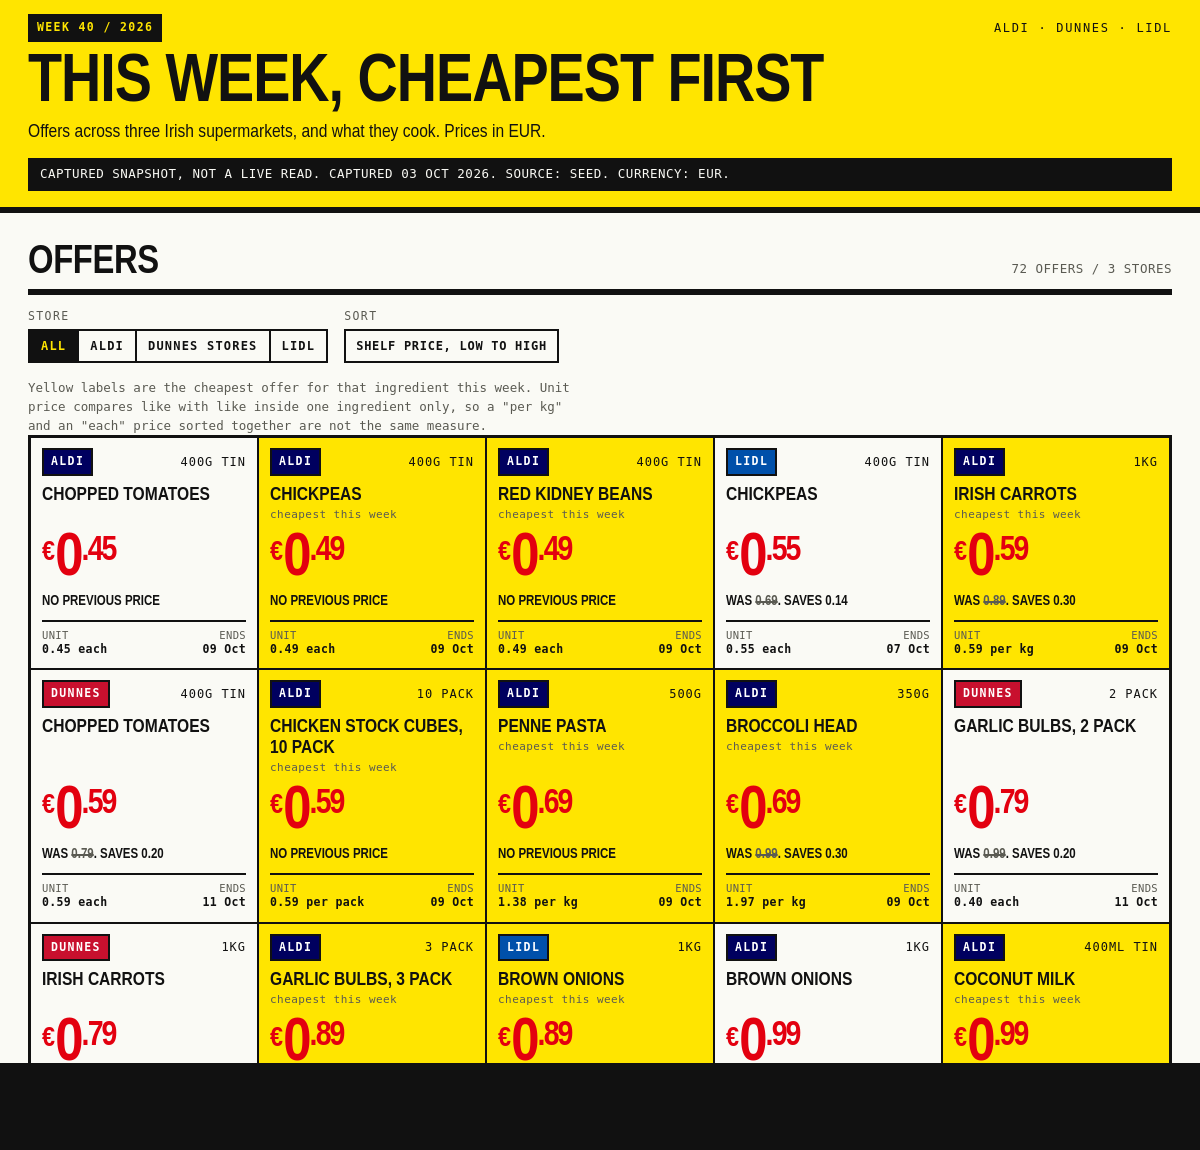
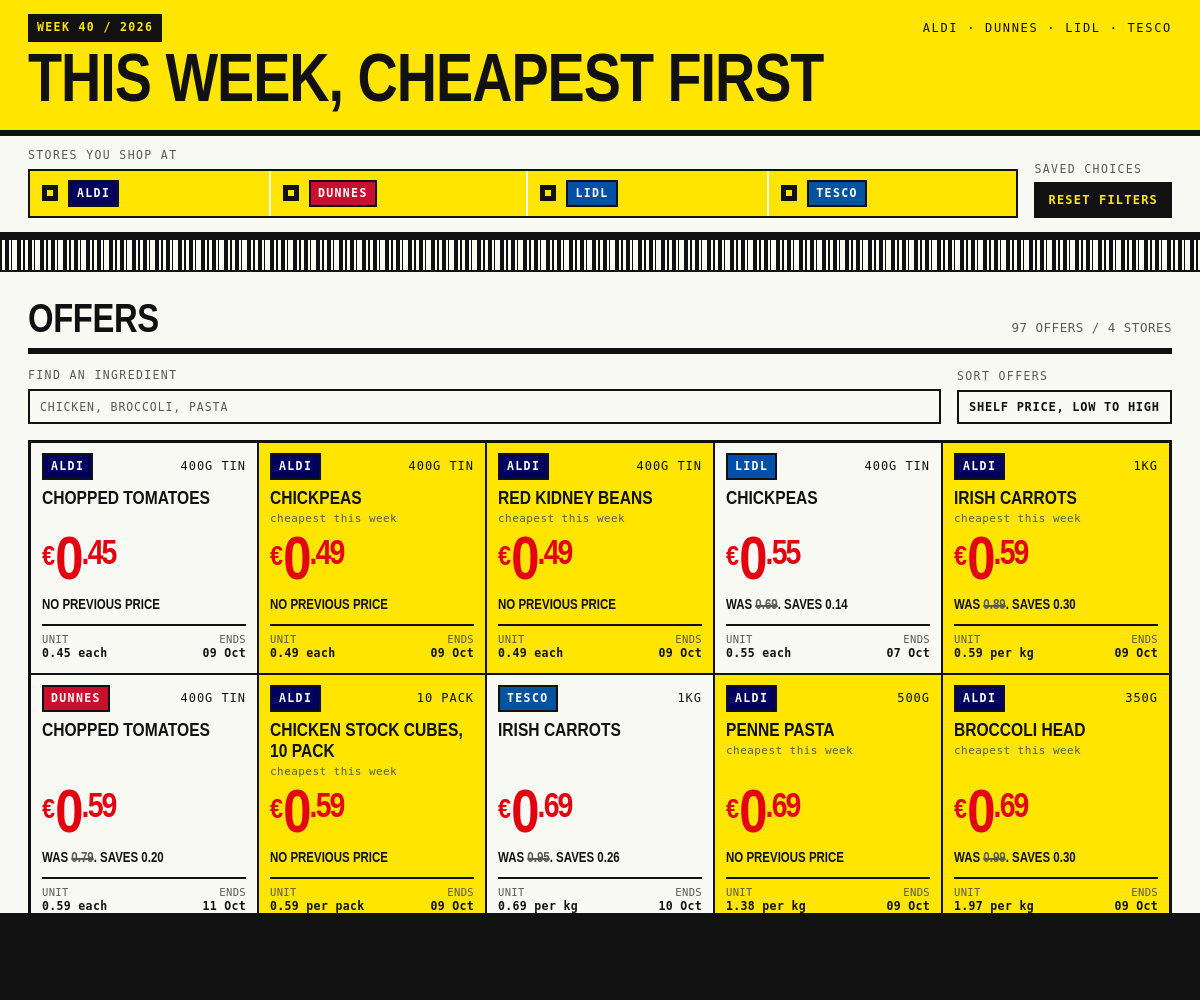
Rename the app to Smart Eats Ireland and refresh the docs
A teammate renamed the README title in c490489. This makes the rest agree:
the page title, the web app manifest, and the screenshot alt text.

The repository, the Worker and the domain stay yellowlabel, so the existing
link keeps working. Only the user facing name changed.

The README was also stale in two ways that had nothing to do with the name.
It said three supermarkets, written before Tesco was added, and it described
the offers as coming before the meals, which stopped being true when the two
sections were swapped. Both corrected, and the screenshots regenerated from
the current build rather than the old layout.

Offer counts in the wiki still read 72 from round one. They are 97 now, over
four shops, with 25 lacking a previous price rather than 20.

sw.js moves to v4. index.html and the manifest changed, and the shell cache is
versioned by hand, so without the bump a returning visitor keeps the old page.

diff --git a/index.html b/index.html
@@ -5,7 +5,7 @@
 <meta name="viewport" content="width=device-width, initial-scale=1">
 <meta name="theme-color" content="#FFE500">
 <meta name="description" content="This week's cheapest ingredients across Irish supermarkets, and the recipes they make.">
-<title>Yellow Label</title>
+<title>Smart Eats Ireland</title>
 <link rel="manifest" href="./manifest.webmanifest">
 <link rel="icon" href="./icons/icon.svg" type="image/svg+xml">
 <link rel="stylesheet" href="./styles/label.css">

diff --git a/sw.js b/sw.js
@@ -5,7 +5,7 @@
 // changes. The data files are stale while revalidate: offline gets the last
 // snapshot, online quietly picks up a newer one.
 
-const VERSION = 'v3';
+const VERSION = 'v4';
 const SHELL_CACHE = `weekprices-shell-${VERSION}`;
 const DATA_CACHE = `weekprices-data-${VERSION}`;
 

diff --git a/wiki/data.md b/wiki/data.md
@@ -5,14 +5,14 @@ Three files in `data/`, joined by `ingredientKey`.
 The prices are illustrative sample data, not real store prices. See
 [Roadmap](roadmap.md) for what a live source would take.
 
-![Recipes](images/recipes.png)
+![Meals](images/meals.png)
 
 ## Current set
 
 | | |
 | --- | --- |
 | Ingredients | 41, of which 38 have an offer |
-| Offers | 72 across three shops |
+| Offers | 97 across four shops |
 | Recipes | 14, of which 13 are makeable |
 
 Two gaps are deliberate, so the matching rule is visibly doing work rather
@@ -61,11 +61,11 @@ determines what `unitPrice` means for every offer on that ingredient.
 }
 ```
 
-- `store` is `ALDI`, `DUNNES` or `LIDL`.
-- `wasPrice` is null when there is no previous price. 20 of the 72 offers have
+- `store` is `ALDI`, `DUNNES`, `LIDL` or `TESCO`.
+- `wasPrice` is null when there is no previous price. 25 of the 97 offers have
   none, so they score a saving of zero.
 - `source` must say `seed` unless the data genuinely came from a live read.
-  The interface reads this to decide whether to show the snapshot notice.
+  The footer prints it alongside `capturedAt`.
 
 ## `recipes.json`
 

diff --git a/README.md b/README.md
@@ -1,13 +1,16 @@
 # Smart Eats Ireland
 
-See what is cheapest across Aldi, Dunnes Stores and Lidl this week, and what
-you can cook with it.
+See what you can cook this week from whatever is cheapest across Aldi, Dunnes
+Stores, Lidl and Tesco.
 
-![Yellow Label](wiki/images/offers.png)
+![Smart Eats Ireland](wiki/images/meals.png)
 
-A yellow label means that offer is the cheapest one for its ingredient this
-week. Under the offers, every meal those offers make, with a cost per serving
-and which shop each ingredient comes from.
+Meals first, each with a cost per serving and which shop every ingredient
+comes from. Pick the shops you actually use and everything re-prices against
+them.
+
+Below that, the offers themselves. A yellow label marks the cheapest offer for
+its ingredient this week.
 
 Installable, and works offline once loaded.
 
@@ -30,6 +33,6 @@ No build step and no dependencies.
 ---
 
 Sample data. The prices are illustrative and are not real store prices. Not
-affiliated with Aldi, Dunnes Stores or Lidl.
+affiliated with Aldi, Dunnes Stores, Lidl or Tesco.
 
 MIT licensed.

diff --git a/wiki/architecture.md b/wiki/architecture.md
@@ -78,7 +78,7 @@ the recipe needs. `costRecipes` also returns:
 `unitPrice` is per kg, per litre, per each or per pack depending on the
 ingredient. It is only meaningful **within** a single ingredient.
 
-Sorting all 72 offers by `unitPrice` across different units would rank eggs
+Sorting all 97 offers by `unitPrice` across different units would rank eggs
 above beef and look authoritative while being meaningless. `bestDeals` exists
 to avoid that: it picks the cheapest shop per ingredient and ranks by the size
 of the drop.

diff --git a/wiki/roadmap.md b/wiki/roadmap.md
@@ -46,7 +46,7 @@ arguably the more useful one, and it changes which recipes look cheapest.
 
 ## Savings ranking
 
-20 of the 72 offers have no previous price, so they score a saving of zero and
+25 of the 97 offers have no previous price, so they score a saving of zero and
 sink in any ranking by saving. Penne pasta at 0.69 for 500g is a good price
 and ranks last.
 
